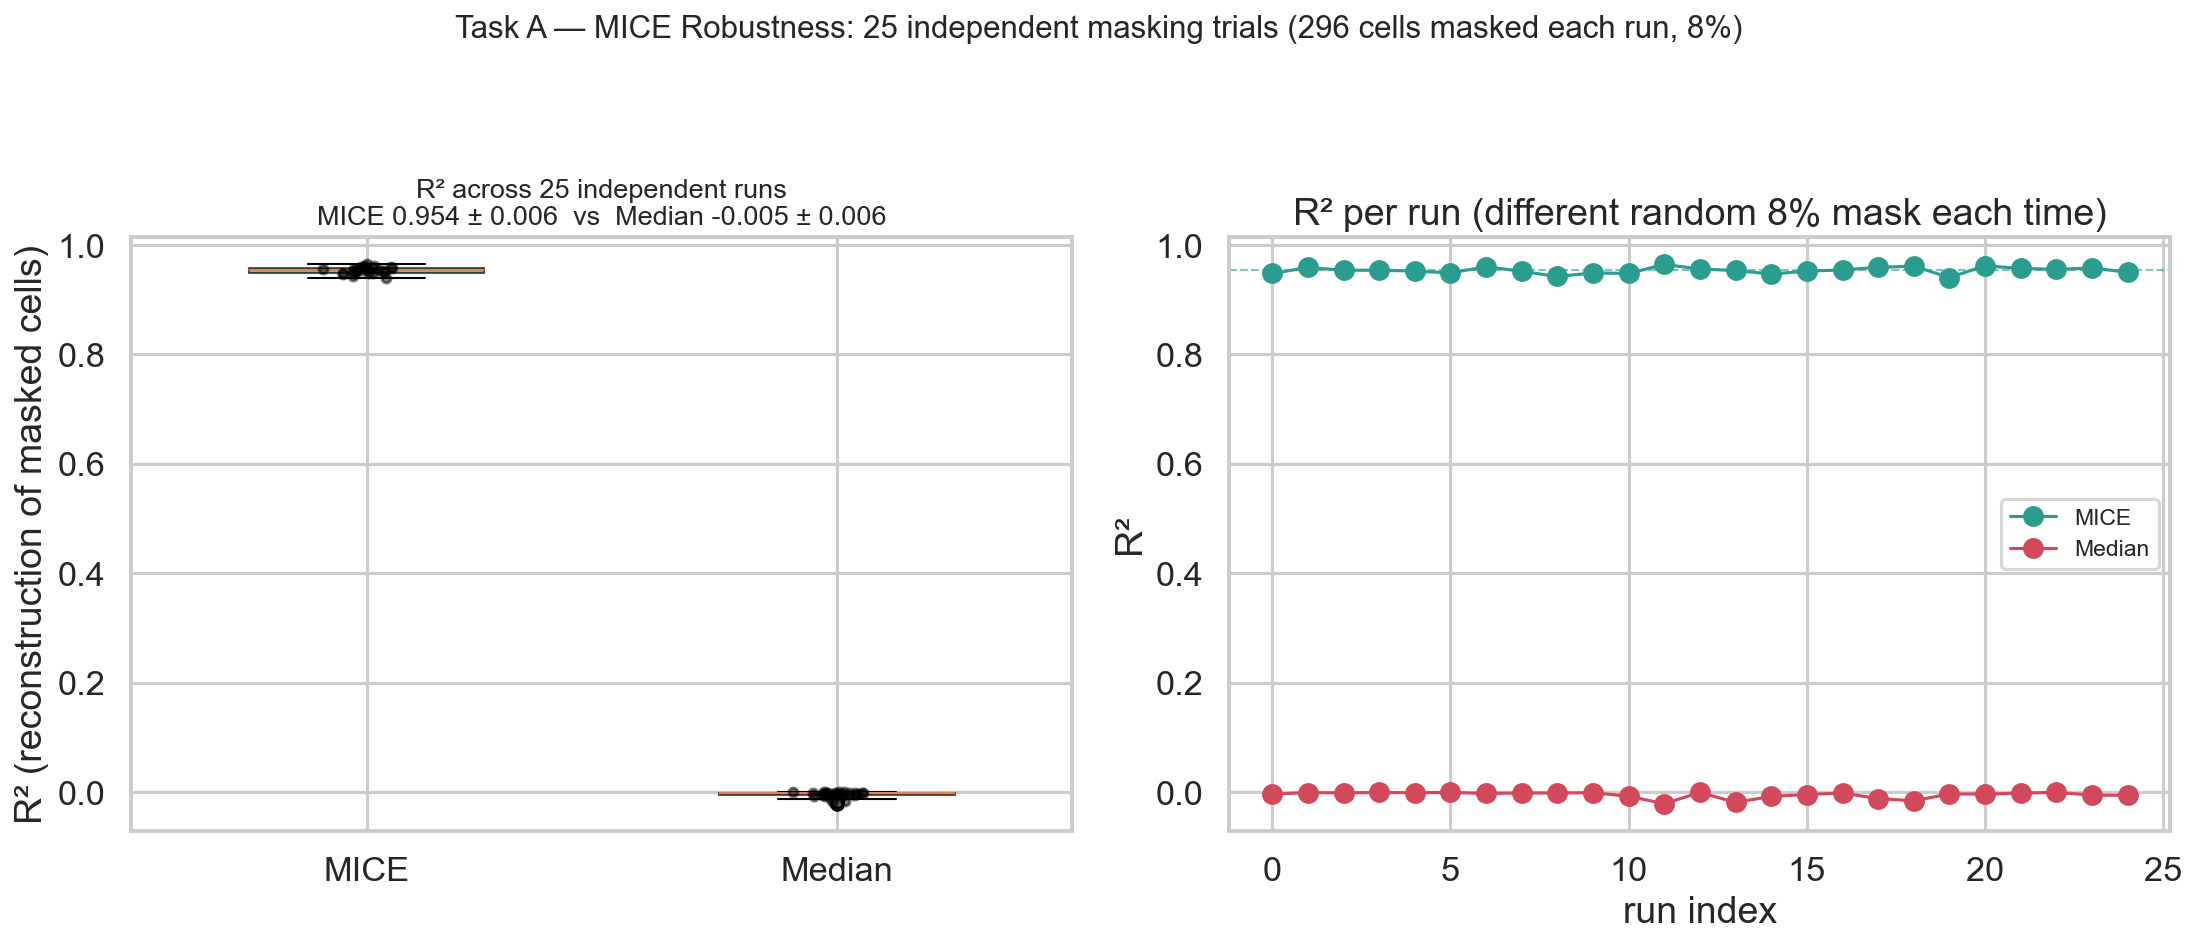
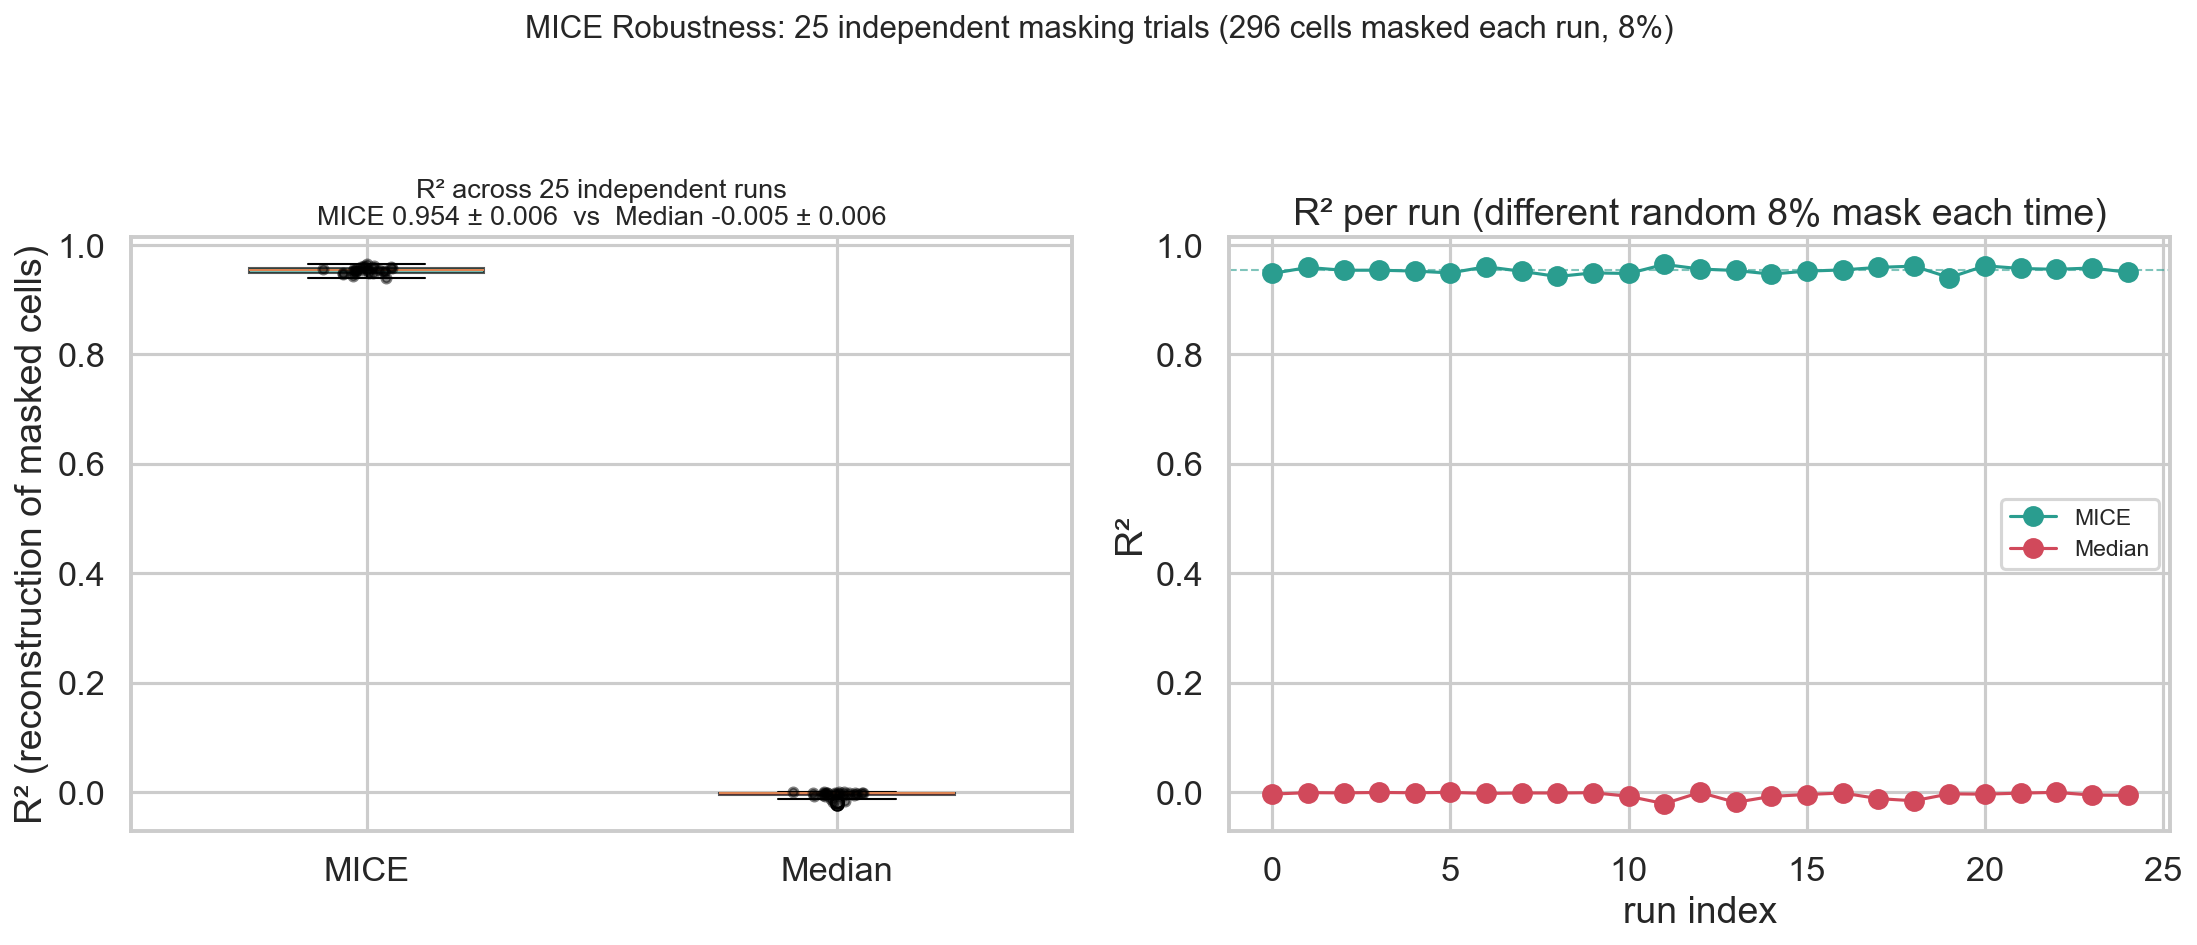
refactor: name pipeline components by function, not by task letter
Step 4's three components were labelled "Task A / Task B / Task C", which
reads as assignment sub-parts rather than pipeline stages. Renamed
throughout to what they actually do - MICE robustness, outlier detection,
and exploratory analysis - across the README, config, all four modules,
the console output ([1/3], [2/3], [3/3]) and the two chart titles baked
into the figures.

Step 4 was re-run so both regenerated PNGs carry the new titles. All
results are bit-identical to the previous run: MICE R2 0.9536 +/- 0.0060
over 25 trials beating the median baseline 25/25, 167 IsolationForest /
167 LOF / 49 consensus outliers at Jaccard 0.172, Q1 Math 6.18 pts
(d=0.91) vs English 6.45 (d=1.16), Q2 87/460 = 18.9%. The two output
CSVs are byte-identical to the committed versions, so Step 5 is
unaffected.

Also adds the completion year to the README author line, and drops a
stray "report/deck" reference from a Step 1 docstring.

Changed region(s): [[0.2167, 0.0, 0.8047, 0.0614]]

diff --git a/step_4_preprocessing_outliers_imputation_experiment/code/run_step4.py b/step_4_preprocessing_outliers_imputation_experiment/code/run_step4.py
@@ -7,9 +7,9 @@ Authors: Yousef Shihade & Shada Esawi
 
 Flow:
     load Step-3 school-level table + derived columns
-    -> Task A: MICE robustness — 25 independent masking trials (NEW in v2)
-    -> Task B: Isolation Forest + LOF outlier detection (richer v2 feature space)
-    -> Task C: exploratory Q1 (resilience) + Q2 (overachievers) — unchanged
+    -> MICE robustness — 25 independent masking trials (NEW in v2)
+    -> Outlier detection: Isolation Forest + LOF (richer v2 feature space)
+    -> Exploratory analysis: Q1 (resilience) + Q2 (overachievers) — unchanged
     -> save cleaned_modeling_ready.csv + all diagnostic plots
 
 Usage:
@@ -54,9 +54,9 @@ def main() -> None:
     df = load_school_level(cfg)
     print(f"\n[LOAD] school-level table: {df.shape}")
 
-    # ---------------- Task A: MICE robustness (multi-iteration, NEW) -------- #
+    # ---------------- MICE robustness (multi-iteration, NEW) -------- #
     ie = cfg["imputation_experiment"]
-    print(f"\n[TASK A] MICE robustness — {ie['n_iterations']} independent masking trials")
+    print(f"\n[1/3] MICE robustness — {ie['n_iterations']} independent masking trials")
     print(f"    target feature: {ie['target_feature']}  |  mask fraction: {ie['mask_fraction']}")
     print(f"    predictors ({len(ie['predictors'])}): {ie['predictors']}")
 
@@ -76,9 +76,9 @@ def main() -> None:
     robustness_plot = imp.plot_robustness(mice_result, graphs)
     print(f"    saved per-run detail: {Path(cfg['paths']['mice_runs_out']).name}")
 
-    # ---------------- Task B: outlier detection ------------------------------ #
+    # ---------------- Outlier detection ------------------------------ #
     oc = cfg["outliers"]
-    print(f"\n[TASK B] Outlier detection — Isolation Forest + LOF")
+    print(f"\n[2/3] Outlier detection — Isolation Forest + LOF")
     print(f"    feature space ({len(oc['features'])}): {oc['features']}")
     df, osumm = out.detect(df, cfg)
     print(f"    evaluated: {osumm['n_evaluated']:,} complete-case rows")
@@ -86,8 +86,8 @@ def main() -> None:
     print(f"    consensus (both): {osumm['overlap_both']}  |  Jaccard: {osumm['jaccard']:.3f}")
     outlier_plot = out.plot_mapping(df, graphs)
 
-    # ---------------- Task C: exploratory questions --------------------------- #
-    print(f"\n[TASK C] Exploratory questions (unchanged methodology from v1)")
+    # ---------------- Exploratory questions --------------------------- #
+    print(f"\n[3/3] Exploratory questions (unchanged methodology from v1)")
     q1 = ex.question1_resilience(df, cfg)
     print(f"    Q1 — more resilient subject (smaller grade gap): {q1['more_resilient_grade']}")
     for subj, r in q1["subjects"].items():

diff --git a/step_4_preprocessing_outliers_imputation_experiment/code/imputation_experiment.py b/step_4_preprocessing_outliers_imputation_experiment/code/imputation_experiment.py
@@ -1,5 +1,5 @@
 """
-imputation_experiment.py — Task A: MICE robustness (v2: multi-iteration).
+imputation_experiment.py — MICE robustness (v2: multi-iteration).
 
 Project: Predicting Bagrut Success from Municipal Socioeconomics and
          School-Level Institutional Resources
@@ -145,7 +145,7 @@ def plot_robustness(result: dict[str, Any], out_dir: Path) -> Path:
     ax2.set_xlabel("run index"); ax2.set_ylabel("R²")
     ax2.legend(fontsize=11)
 
-    fig.suptitle(f"Task A — MICE Robustness: {summ['n_iterations']} independent masking trials "
+    fig.suptitle(f"MICE Robustness: {summ['n_iterations']} independent masking trials "
                 f"({int(summ['n_masked'])} cells masked each run, 8%)", fontsize=15)
     fig.tight_layout(rect=(0, 0, 1, 0.93))
     path = out_dir / "mice_robustness_multi_iteration.png"

diff --git a/step_4_preprocessing_outliers_imputation_experiment/code/outliers.py b/step_4_preprocessing_outliers_imputation_experiment/code/outliers.py
@@ -1,5 +1,5 @@
 """
-outliers.py — Task B: Isolation Forest + Local Outlier Factor.
+outliers.py — Outlier detection: Isolation Forest + Local Outlier Factor.
 
 Project: Predicting Bagrut Success from Municipal Socioeconomics and
          School-Level Institutional Resources
@@ -107,7 +107,7 @@ def plot_mapping(df: pd.DataFrame, out_dir: Path) -> Path:
                    c=palette[cat], alpha=(0.35 if cat == "Clean" else 0.9),
                    edgecolor=("none" if cat == "Clean" else "black"), linewidth=0.4,
                    label=f"{cat} (n={len(sub)})", zorder=(1 if cat == "Clean" else 3))
-    ax.set_title("Task B — Outlier Mapping: Isolation Forest vs LOF\n"
+    ax.set_title("Outlier Mapping: Isolation Forest vs LOF\n"
                  "(school-year records in SES-vs-grade space)")
     ax.set_xlabel("CBS socioeconomic index value (higher = wealthier)")
     ax.set_ylabel("Combined (Math+English) weighted avg grade")

diff --git a/step_1_ingestion_standardization/code/visualize.py b/step_1_ingestion_standardization/code/visualize.py
@@ -166,7 +166,7 @@ def plot_budget_school_profile(bud: pd.DataFrame, cfg: dict[str, Any],
 
     Hebrew category labels are mapped to English via ``cfg['display_labels']``:
     matplotlib renders RTL Hebrew reversed ("יהודי" -> "ידוהי"), which would make
-    every tick label unreadable in the report/deck.
+    every tick label unreadable at figure scale.
     """
     labels = cfg.get("display_labels", {})
     panels = [("sector", "Sector"), ("supervision", "Supervision"),

diff --git a/step_4_preprocessing_outliers_imputation_experiment/code/exploratory.py b/step_4_preprocessing_outliers_imputation_experiment/code/exploratory.py
@@ -1,5 +1,5 @@
 """
-exploratory.py — Task C: baseline answers to the two core research questions.
+exploratory.py — Exploratory analysis: baseline answers to the two core research questions.
 
 Project: Predicting Bagrut Success from Municipal Socioeconomics and
          School-Level Institutional Resources

diff --git a/step_4_preprocessing_outliers_imputation_experiment/README.md b/step_4_preprocessing_outliers_imputation_experiment/README.md
@@ -6,10 +6,11 @@
 > **v2 change.** After reviewing the imputation literature and published
 > evaluations of MICE, we concluded that a *single* masked-imputation run is not
 > methodologically sufficient evidence of stability — one draw cannot separate a
-> genuine advantage from a favourable random mask. Task A now repeats the MICE
-> experiment **25 times** with independent random seeds/masks and reports the
-> full distribution (mean ± std, min/max) rather than one number. Tasks B and C
-> reuse v1's proven methodology, now operating on the richer v2 feature space.
+> genuine advantage from a favourable random mask. The experiment now runs
+> **25 times** with independent random seeds/masks and reports the full
+> distribution (mean ± std, min/max) rather than one number. Outlier detection
+> and the exploratory analysis reuse v1's proven methodology, now operating on
+> the richer v2 feature space.
 
 ---
 
@@ -35,7 +36,7 @@ Run: `python code/run_step4.py`.
 
 ---
 
-## 2. Task A — MICE robustness (v2: 25 independent trials)
+## 2. MICE robustness (v2: 25 independent trials)
 
 **Why 25 runs, not 1.** One masked draw could be lucky or unlucky. Repeating with
 25 different random seeds (same 8% mask fraction, same predictor set, same
@@ -66,7 +67,7 @@ random mask.
 
 ---
 
-## 3. Task B — Outlier detection (unchanged method, richer feature space)
+## 3. Outlier detection (unchanged method, richer feature space)
 
 Same two complementary detectors as v1 — **Isolation Forest** (global anomalies)
 and **Local Outlier Factor** (local-density anomalies) — now run on a **9-feature
@@ -88,7 +89,7 @@ fully auditable.
 
 ---
 
-## 4. Task C — Exploratory questions (unchanged from v1)
+## 4. Exploratory questions (unchanged from v1)
 
 Both questions are **SES-only by design** (they test the original research
 question's resilience/overachiever findings) and depend only on `cluster` and the

diff --git a/README.md b/README.md
@@ -12,7 +12,7 @@
 ![Pipeline](https://img.shields.io/badge/pipeline-5%20stages-success.svg)
 ![Status](https://img.shields.io/badge/status-complete-brightgreen.svg)
 
-**Authors:** Yousef Shihade & Shada Esawi · *Data Science Lab — Final Project*
+**Authors:** Yousef Shihade & Shada Esawi · *Data Science Lab — Final Project, 2026*
 
 ---
 
@@ -88,7 +88,7 @@ cluster, Math's performance gap is smaller than English's on both grade
 vs 0.367). Separately, **87 of 460 (18.9%) low-SES schools** match or beat the
 elite-cluster median grade, with significantly higher advanced-track
 participation (p < 0.0001 for both subjects). Full detail:
-[Step 4 README, Task C](step_4_preprocessing_outliers_imputation_experiment/README.md#4-task-c--exploratory-questions-unchanged-from-v1).
+[Step 4 README](step_4_preprocessing_outliers_imputation_experiment/README.md#4-exploratory-questions-unchanged-from-v1).
 
 **Secondary B — Per-student budget ratios and the Ministry's own school-level
 disadvantage ranking, independent of municipal wealth.** Five budget ratios